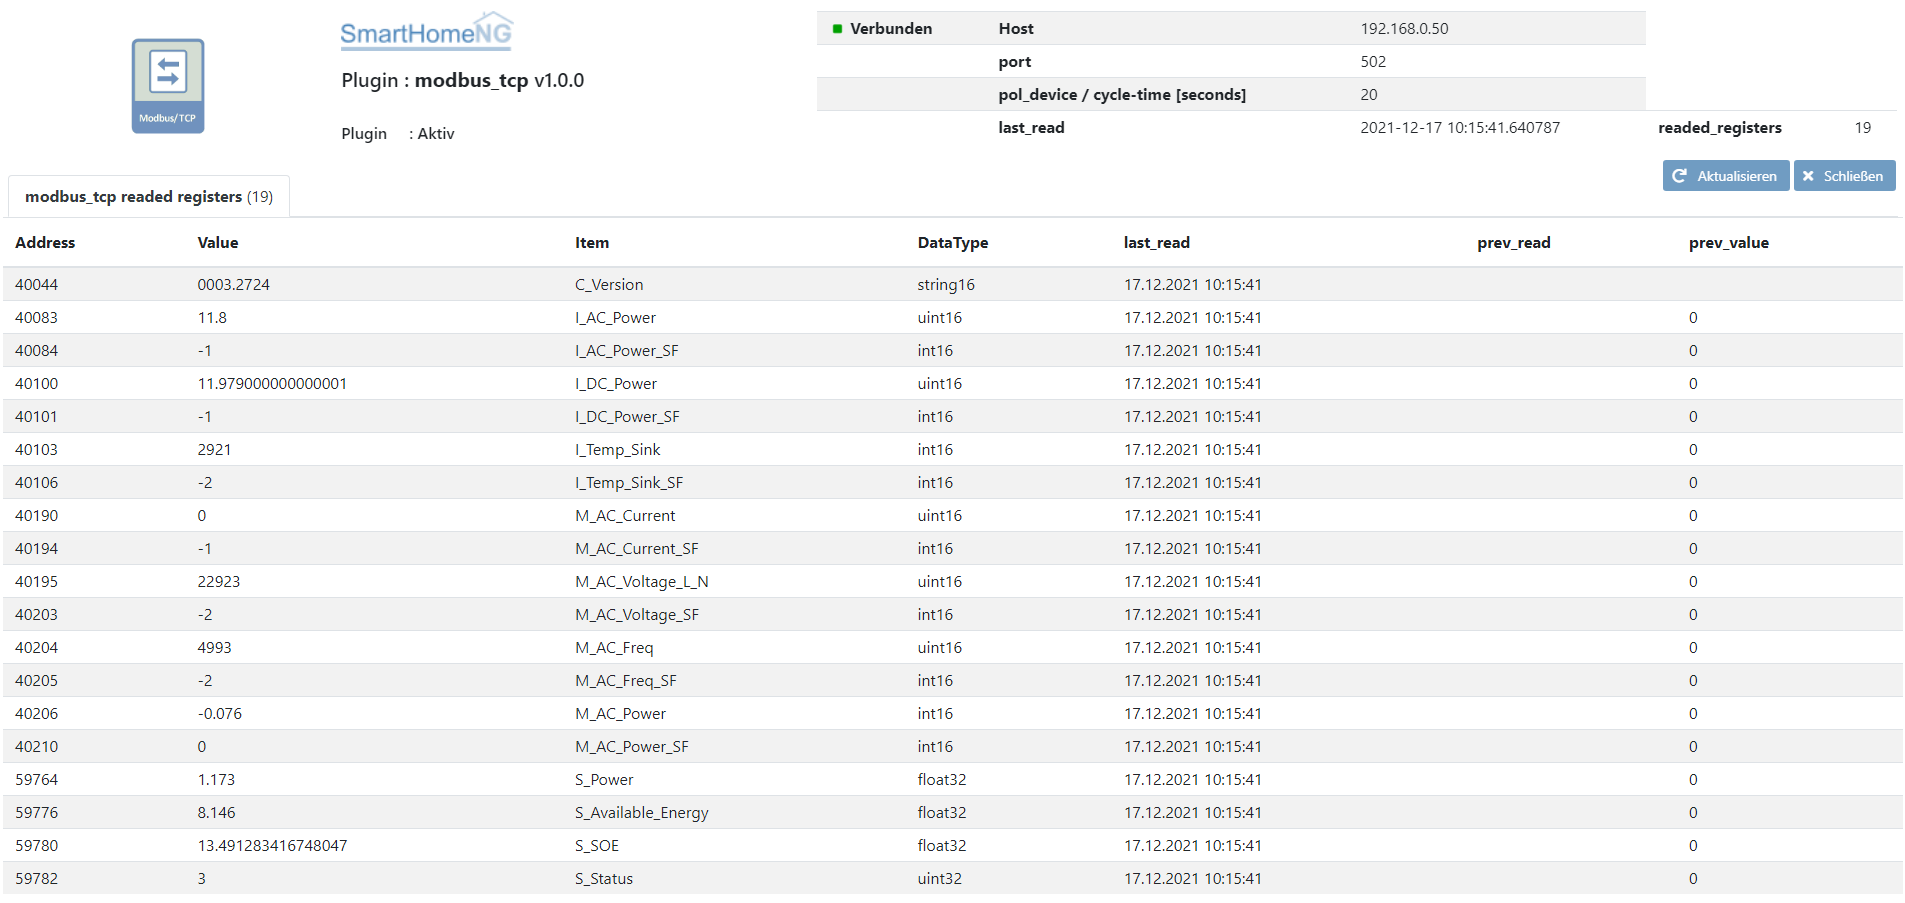
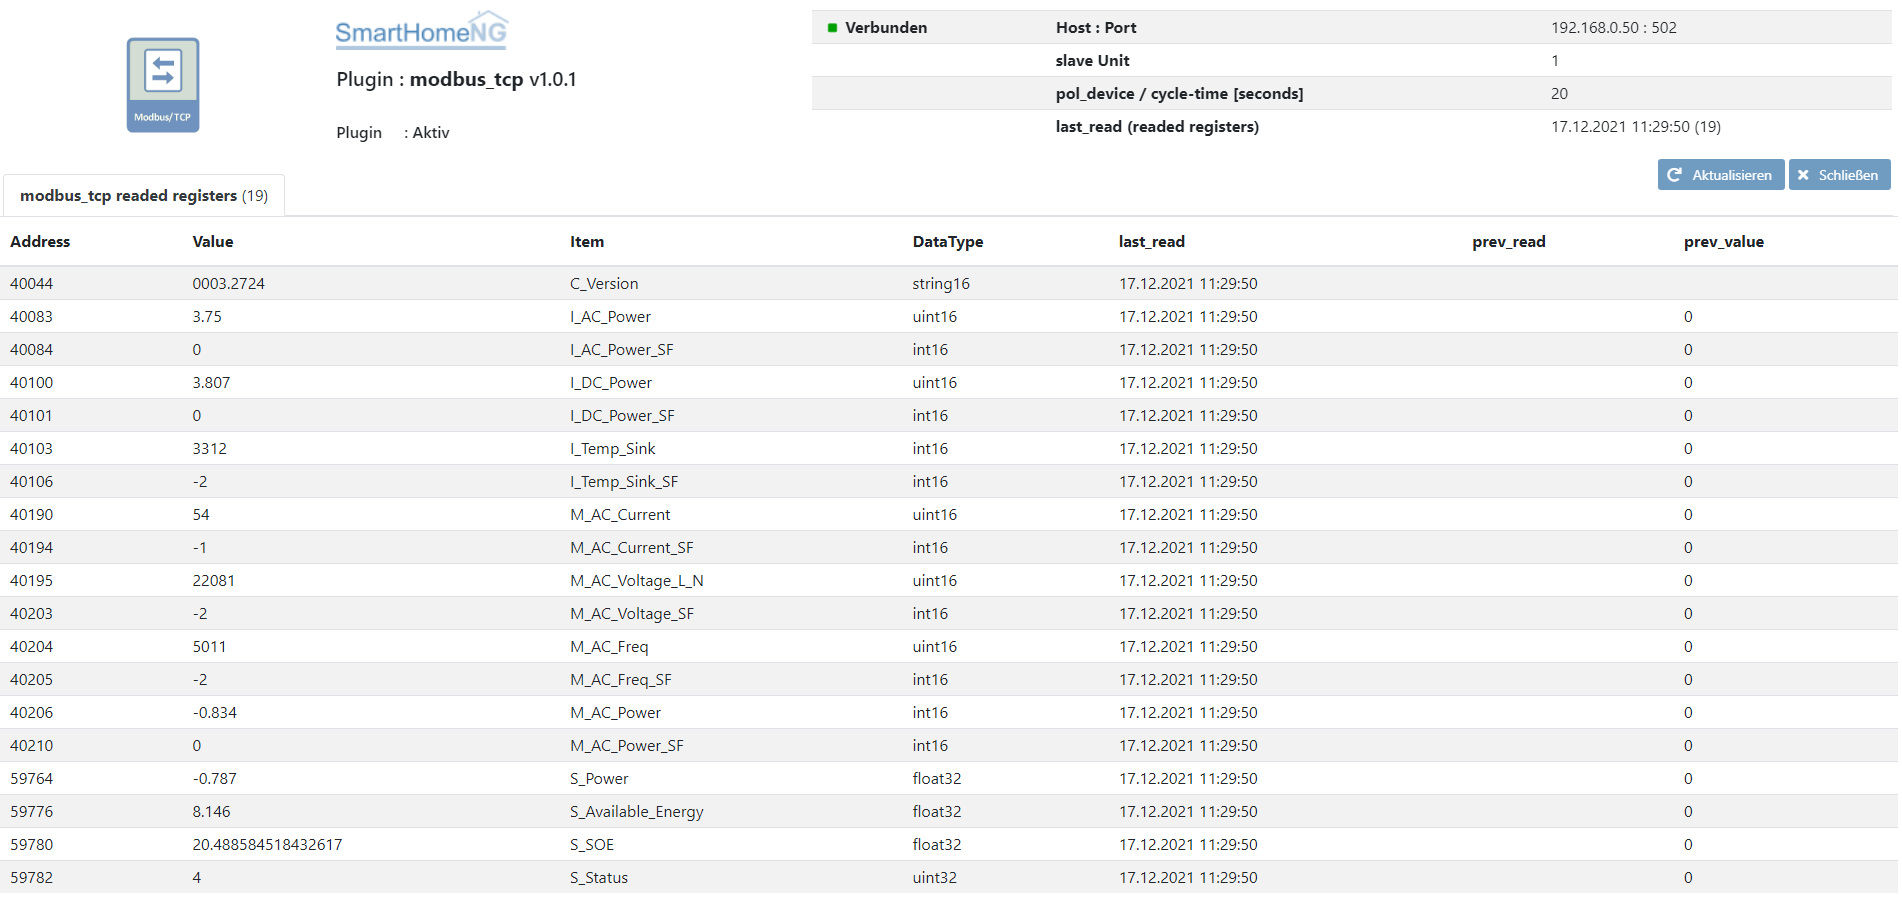
1.0.1 slaveUnit zu plugin-Paramter hinzugefügt

diff --git a/modbus_tcp/webif/templates/index.html b/modbus_tcp/webif/templates/index.html
@@ -17,15 +17,15 @@
                 {% endif %}
                 <strong>{{ _('Verbunden') }}</strong>
             </td>
-			<td class="py-1"><strong>{{ _('Host') }}</strong></td>
-			<td class="py-1">{{ p._host }}</td>
-			
+			<td class="py-1"><strong>{{ _('Host : Port') }}</strong></td>
+			<td class="py-1">{{ p._host }} : {{ p._port }} </td>
 		</tr>
         <tr>
             <td class="py-1"><strong>{{ _('') }}</strong></td>
-			<td class="py-1"><strong>{{ _('port') }}</strong></td>
-			<td class="py-1">{{ p._port }}</td>
+			<td class="py-1"><strong>{{ _('slave Unit') }}</strong></td>
+			<td class="py-1">{{ p._slaveUnit }}</td>
 		</tr>
+
         <tr>
             <td class="py-1"><strong>{{ _('') }}</strong></td>
 			<td class="py-1"><strong>{{ _('pol_device / cycle-time [seconds]') }}</strong></td>
@@ -33,10 +33,8 @@
 		</tr>
         <tr>
             <td class="py-1"><strong>{{ _('') }}</strong></td>
-			<td class="py-1"><strong>{{ _('last_read') }}</strong></td>
-			<td class="py-1">{{ p._pollStatus.last_dt }}</td>
-			<td class="py-1"><strong>{{ _('readed_registers') }}</strong></td>
-			<td class="py-1">{{ p._pollStatus.regCount }}</td>
+			<td class="py-1"><strong>{{ _('last_read (readed registers)') }}</strong></td>
+			<td class="py-1">{{ p._pollStatus.last_dt.strftime('%d.%m.%Y %H:%M:%S %Z') }} ({{ p._pollStatus.regCount }})</td>
 		</tr>
 		
 	</tbody>

diff --git a/modbus_tcp/__init__.py b/modbus_tcp/__init__.py
@@ -35,13 +35,12 @@ from pymodbus.client.sync import ModbusTcpClient
 
 AttrAddress = 'modBusAddress'
 AttrType = 'modBusDataType'
-AttrUnit = 'modBusUnit'
 AttrFactor = 'modBusFactor'
 AttrByteOrder = 'modBusByteOrder'
 AttrWordOrder = 'modBusWordOrder'
 
 class modbus_tcp(SmartPlugin):
-    PLUGIN_VERSION = '1.0.0'
+    PLUGIN_VERSION = '1.0.1'
 
     def __init__(self, sh, *args, **kwargs):
         """
@@ -52,6 +51,7 @@ class modbus_tcp(SmartPlugin):
         self._host = self.get_parameter_value('host')
         self._port = int(self.get_parameter_value('port'))
         self._cycle = int(self.get_parameter_value('cycle'))
+        self._slaveUnit = int(self.get_parameter_value('slaveUnit'))
         
         self._sh = sh
         self.logger = logging.getLogger(__name__)
@@ -127,7 +127,6 @@ class modbus_tcp(SmartPlugin):
             value = item()
             dataType = 'uint16'
             factor = 1
-            unit = 1
             byteOrder = 'Endian.Big'
             wordOrder = 'Endian.Big'
             self.logger.debug("parse read item: {0}".format(item))
@@ -135,8 +134,6 @@ class modbus_tcp(SmartPlugin):
                 dataType = self.get_iattr_value(item.conf, AttrType)
             if self.has_iattr(item.conf, AttrFactor):
                 factor = float(self.get_iattr_value(item.conf, AttrFactor))
-            if self.has_iattr(item.conf, AttrUnit):
-                unit = int(self.get_iattr_value(item.conf, AttrUnit))
             if self.has_iattr(item.conf, AttrByteOrder):
                 byteOrder = self.get_iattr_value(item.conf, AttrByteOrder)
             if self.has_iattr(item.conf, AttrWordOrder):
@@ -156,7 +153,7 @@ class modbus_tcp(SmartPlugin):
                 wordOrder = Endian.Big
                 self.logger.error("Invalid byte order -> default(Endian.Big) is used : {0}".format(regParameters['wordOrder']))    
                 
-            regPara = {'dataType': dataType, 'factor': factor, 'unit':unit, 'byteOrder': byteOrder, 'wordOrder': wordOrder, 'item': item, 'value': value }
+            regPara = {'dataType': dataType, 'factor': factor, 'byteOrder': byteOrder, 'wordOrder': wordOrder, 'item': item, 'value': value }
             self._regToRead.update({regAddr: regPara})
             
     def poll_device(self):
@@ -216,8 +213,8 @@ class modbus_tcp(SmartPlugin):
             words = int(bits/2)  # bei string: bits = bytes !! string16 -> 16Byte - 8 words
         else:
             words = int(bits/16)
-        #self.logger.debug("read register:{0} words:{1} unit:{2}".format(address, words, regParameters['unit']))
-        result = self._Mclient.read_holding_registers(address, words, unit=regParameters['unit'])
+        #self.logger.debug("read register:{0} words:{1} slaveUnit:{2}".format(address, words, self._slaveUnit))
+        result = self._Mclient.read_holding_registers(address, words, unit=self._slaveUnit)
         #self.logger.debug("read result: {0} ".format(result))
         value = BinaryPayloadDecoder.fromRegisters(result.registers, byteorder=bo,wordorder=wo)
         

diff --git a/modbus_tcp/user_doc.rst b/modbus_tcp/user_doc.rst
@@ -46,7 +46,6 @@ mydevice:
         type: str
         value: ''
         modBusAddress: 40030
-        modBusUnit: '71'                 #(optional) default: 1  
         modBusDataType: 'string16'        #(optional) default: uint16  
         #modBusFactor: '1000'               #(optional) default: 1
         modBusByteOrder: 'Endian.Little'   #(optional) default: 'Endian.Big'
@@ -55,7 +54,6 @@ mydevice:
         type: num
         value: '0'
         modBusAddress: 40048
-        modBusUnit: '71'                 #(optional) default: 1  
         #modBusDataType: 'uint16'        #(optional) default: uint16  
         modBusFactor: '0.001'           #(optional) default: 1
         modBusByteOrder: 'Endian.Little'   #(optional) default: 'Endian.Big'
@@ -64,7 +62,6 @@ mydevice:
         type: num
         value: ''
         modBusAddress: 40050
-        modBusUnit: '71'                 #(optional) default: 1  
         modBusDataType: 'int16'         #(optional) default: uint16  
         modBusFactor: '0.001'           #(optional) default: 1
         modBusByteOrder: 'Endian.Little'   #(optional) default: 'Endian.Big'
@@ -73,11 +70,15 @@ mydevice:
         type: num
         value: ''
         modBusAddress: 40052
-        modBusUnit: '71'                 #(optional) default: 1  
         modBusDataType: 'float32        #(optional) default: uint16  
         #modBusFactor: '1'               #(optional) default: 1
         modBusByteOrder: 'Endian.Little'   #(optional) default: 'Endian.Big'
         modBusWordOrder: 'Endian.Little'   #(optional) default: 'Endian.Big'
+
+Changelog
+---------
+V1.0.1     slaveUnit zu plugin-Paramter hinzugefügt
+V1.0.0     Initial plugin version
 
 
 Web Interface
